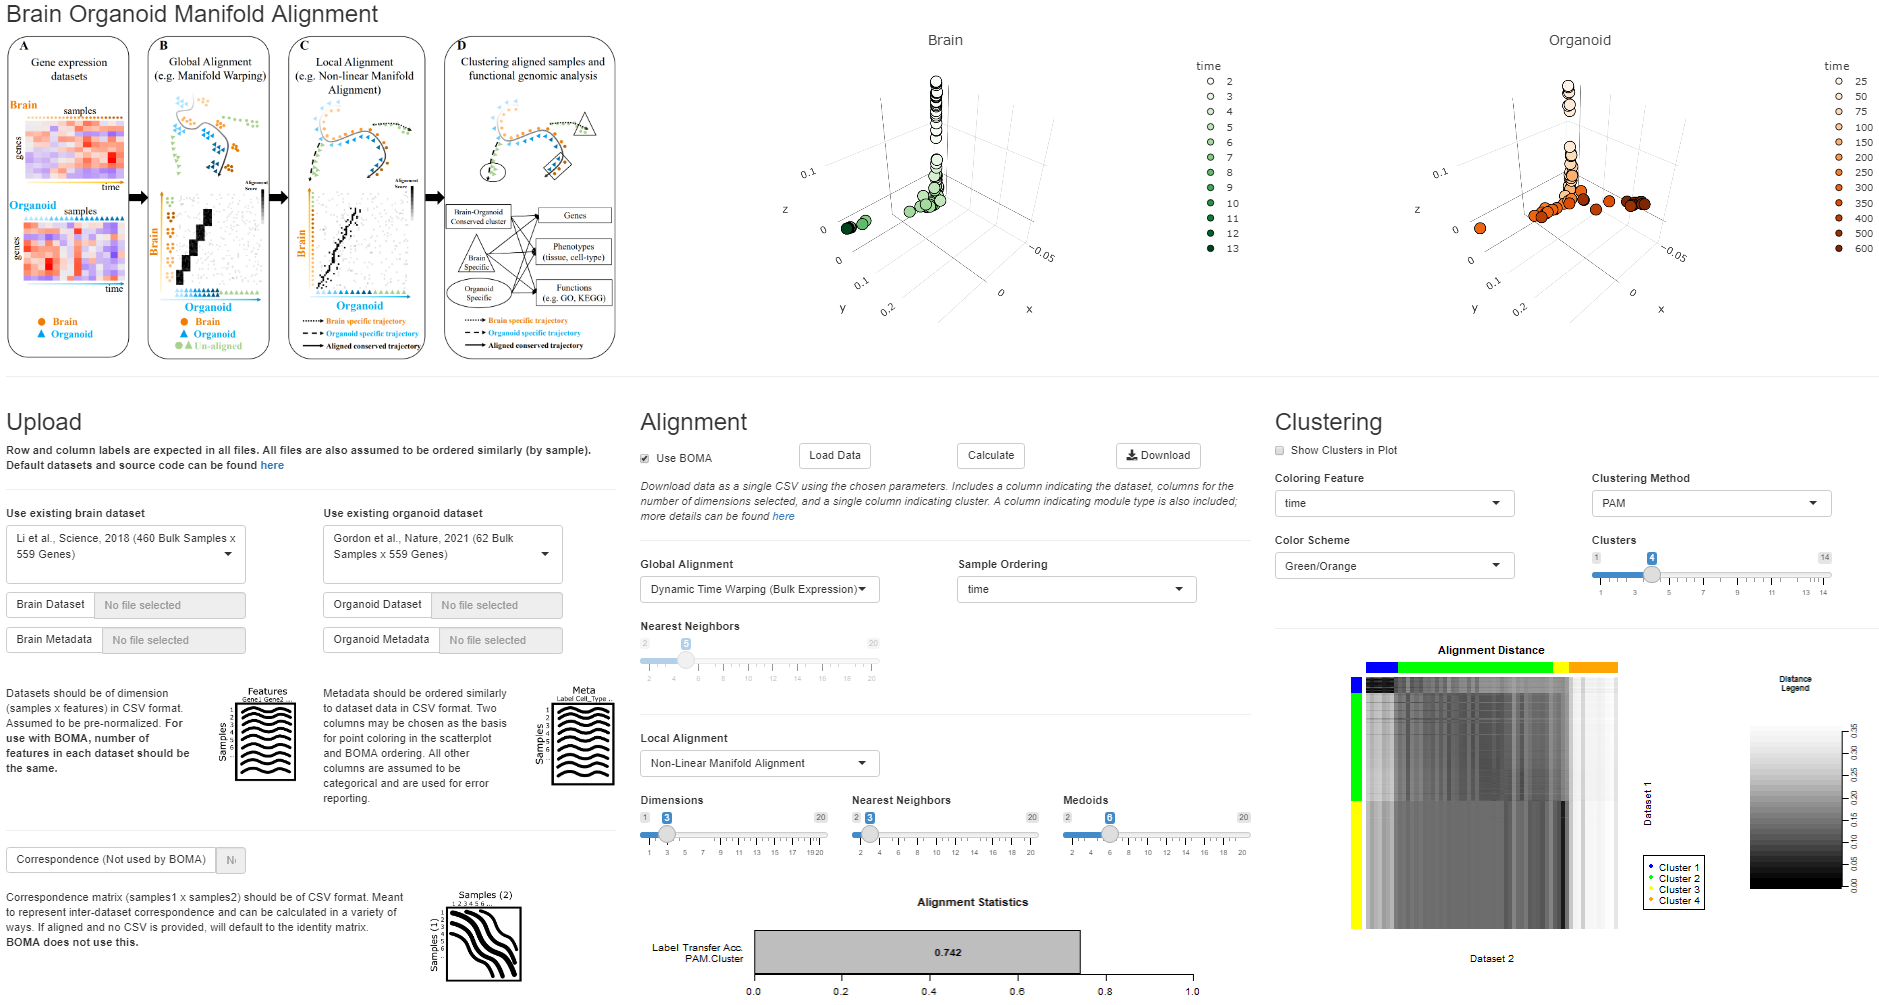
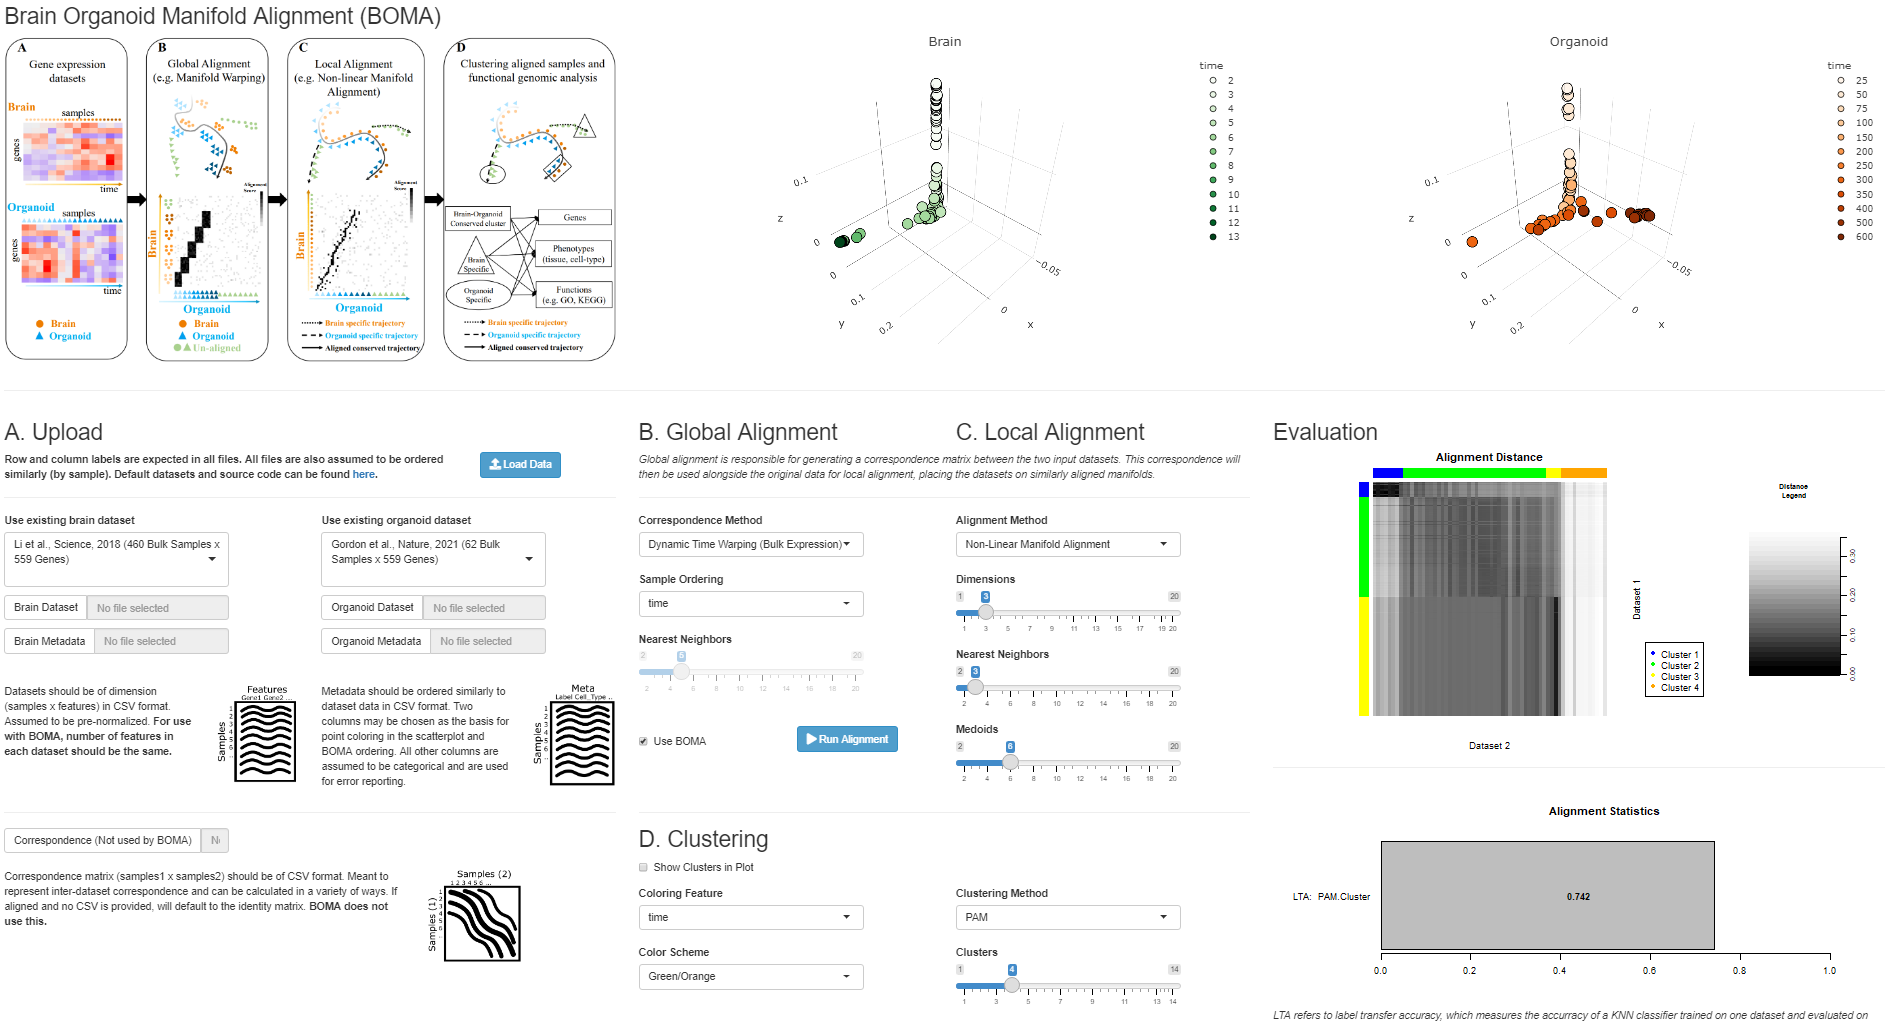
Fixes, ui image

diff --git a/CHANGELOG.md b/CHANGELOG.md
@@ -1,3 +1,6 @@
+# 1.5.6
+- Small formatting fixes/tweaks
+
 # 1.5.5
 - Added more color options
 - Fixed small bug for statistics with action buttons
